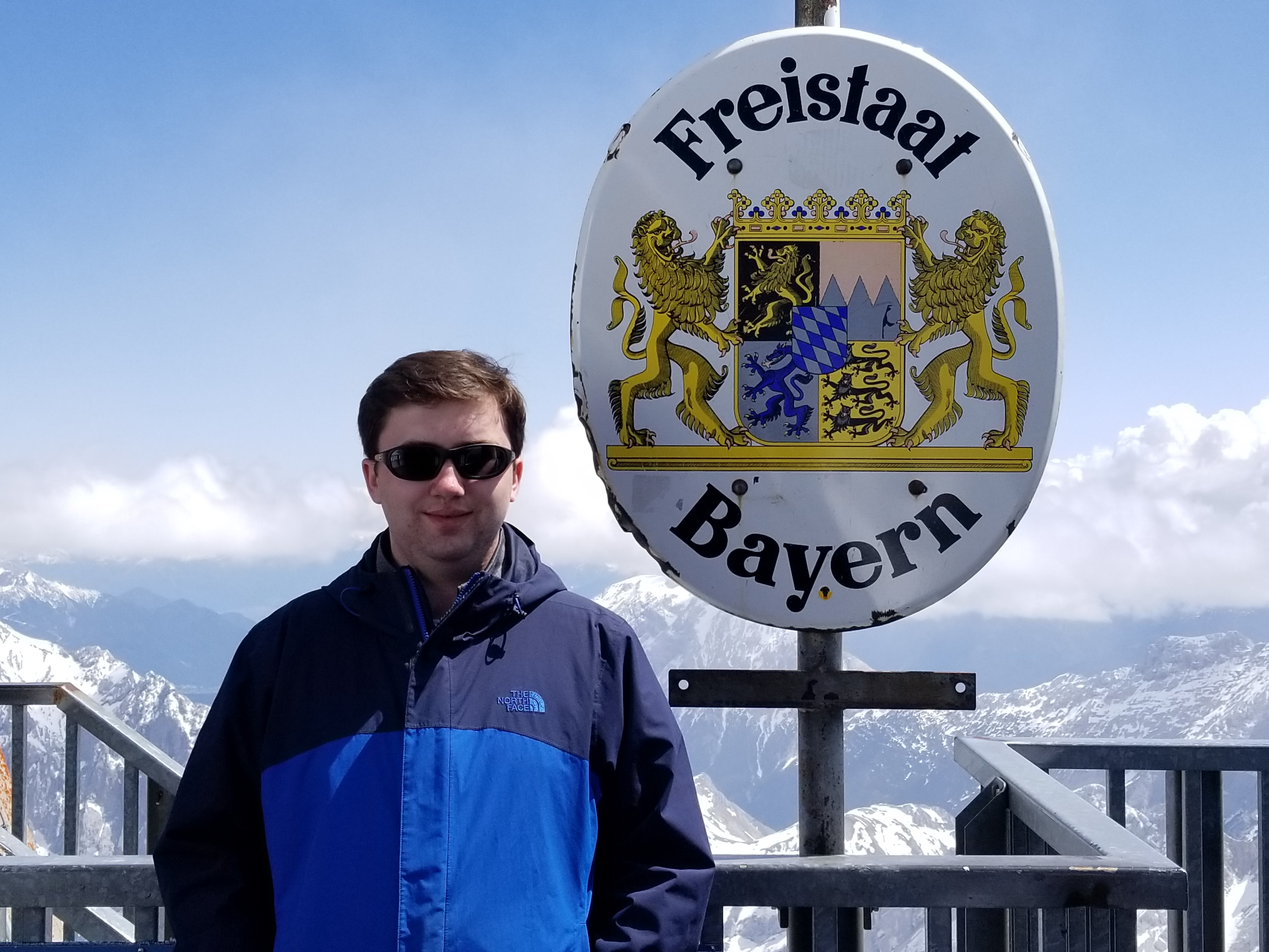
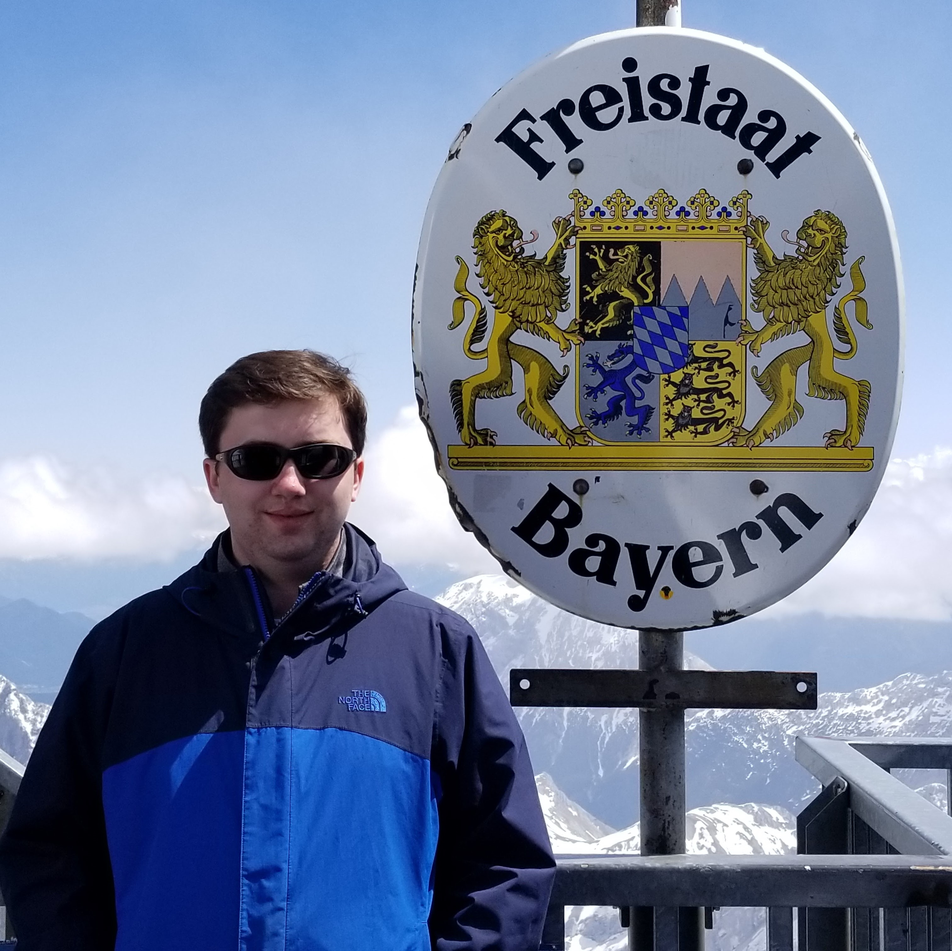
Cropped pictures, made random image script better
Cropped pictures so that they are all squares.

Modified random image script. The image displayed is still random, however, if the aspect ratio is too small (i.e., width / height ratio gets smaller), the image is not displayed at all. I believe this is best for formatting purposes and leaves a clean look on mobile devices, while at the same time displaying pictures on more stationary devices like computers.

diff --git a/index.html b/index.html
@@ -20,8 +20,7 @@
     <!-- custom stylesheet across subpages -->
     <link rel="stylesheet" href="/assets/css/styles.css">
 
-    <!-- random image script (needs jquery) -->
-    <script defer src="https://cdn.jsdelivr.net/npm/jquery@3.7.0/dist/jquery.min.js"></script>
+    <!-- random image script -->
     <script defer src="/assets/js/random-image.js"></script>
 </head>
 
@@ -29,7 +28,6 @@
     <nav class="navbar navbar-expand-md navbar-light bg-light py-2 mb-5 shadow fixed-top">
         <div class="container">
             <a class="navbar-brand navbar-brand-custom" href="#">
-                <!-- NEED MORE SIZES FOR LOGO -->
                 <img src="/assets/images/site-logo-1080.jpeg" width="50" height="50"
                     class="d-inline-block align-center nav-logo-custom" alt="Site logo">Pete Smith
             </a>
@@ -62,22 +60,21 @@
     <div class="container">
 
         <div class="body-content-custom">
-            <h1 class="intro-custom">This site is under active development! Thank you for your patience</h1>
-
-            <hr />
 
             <h1 class="intro-custom">Hi! I'm Pete Smith</h1>
 
+            <hr />
 
             <div class="row">
-                <div class="col-md">
-                    <img id="random-image" style="object-fit: cover; height: 500px; width: 500px;">
+                <div class="col-md" id="img-parent">
+                    <img id="random-image" style="object-fit: cover; height: 400px; width: 400px;">
                 </div>
                 <div class="col-md">
                     <p class="quick-facts-custom">
                         Some quick facts about me:
 
                     <ul class="quick-facts-custom" title="Some quick facts about me:">
+                        <li>I'm an aspiring software engineer based in the Washington, D.C. Area</li>
                         <li>I'm a senior at the University of Maryland, College Park</li>
                         <li>I'm pursuing two degrees!
                             <ul>

diff --git a/assets/js/random-image.js b/assets/js/random-image.js
@@ -1,20 +1,29 @@
-rand = Math.floor(Math.random() * 5) + 1;
+viewWidth = window.innerWidth;
+viewHeight = window.innerHeight;
 
-pictDir = "/assets/images/random-image/image" + rand + ".jpg";
-
-
-if (rand == 1) {
-    altText = "A headshot of me"
-} else if (rand == 2) {
-    altText = "Me standing next to a sign that says \"Freistaat Bayern\"(German for \"Free State of Bavaria\") on top of the Zugspitze"
-} else if (rand == 3) {
-    altText = "A picture of me after my high school graduation"
-} else if (rand == 4) {
-    altText = "Me standing outside of the Clarice Smith Performing Arts Center after my final trumpet jury"
+if (viewWidth / viewHeight < 1000 / 720) {
+    document.getElementById("img-parent").remove();
 } else {
-    altText = "Me standing with the Baltimore Orioles' mascot during a postseason game"
-}
+    console.log()
 
-ele = document.getElementById('random-image');
-ele.src = pictDir;
-ele.alt = altText;
+    rand = Math.floor(Math.random() * 5) + 1;
+
+    pictDir = "/assets/images/random-image/image" + rand + ".jpg";
+
+
+    if (rand == 1) {
+        altText = "A headshot of me"
+    } else if (rand == 2) {
+        altText = "Me standing next to a sign that says \"Freistaat Bayern\"(German for \"Free State of Bavaria\") on top of the Zugspitze"
+    } else if (rand == 3) {
+        altText = "A picture of me after my high school graduation"
+    } else if (rand == 4) {
+        altText = "Me standing outside of the Clarice Smith Performing Arts Center after my final trumpet jury"
+    } else {
+        altText = "Me standing with the Baltimore Orioles' mascot during a postseason game"
+    }
+
+    ele = document.getElementById('random-image');
+    ele.src = pictDir;
+    ele.alt = altText;
+}
